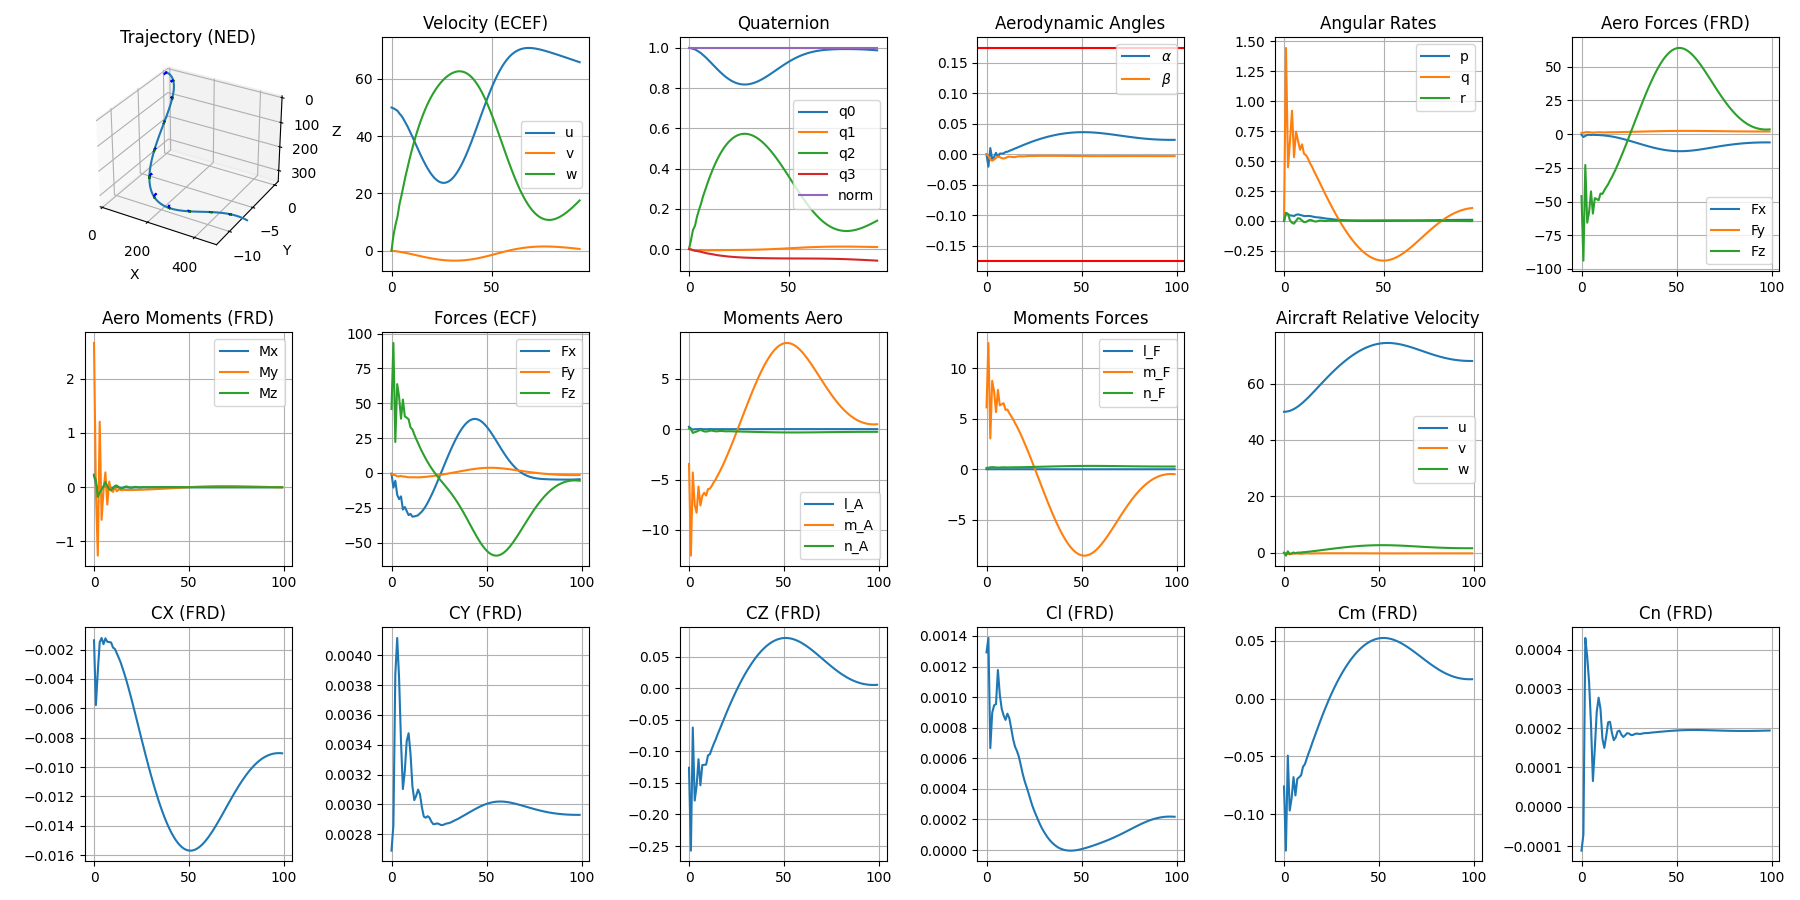
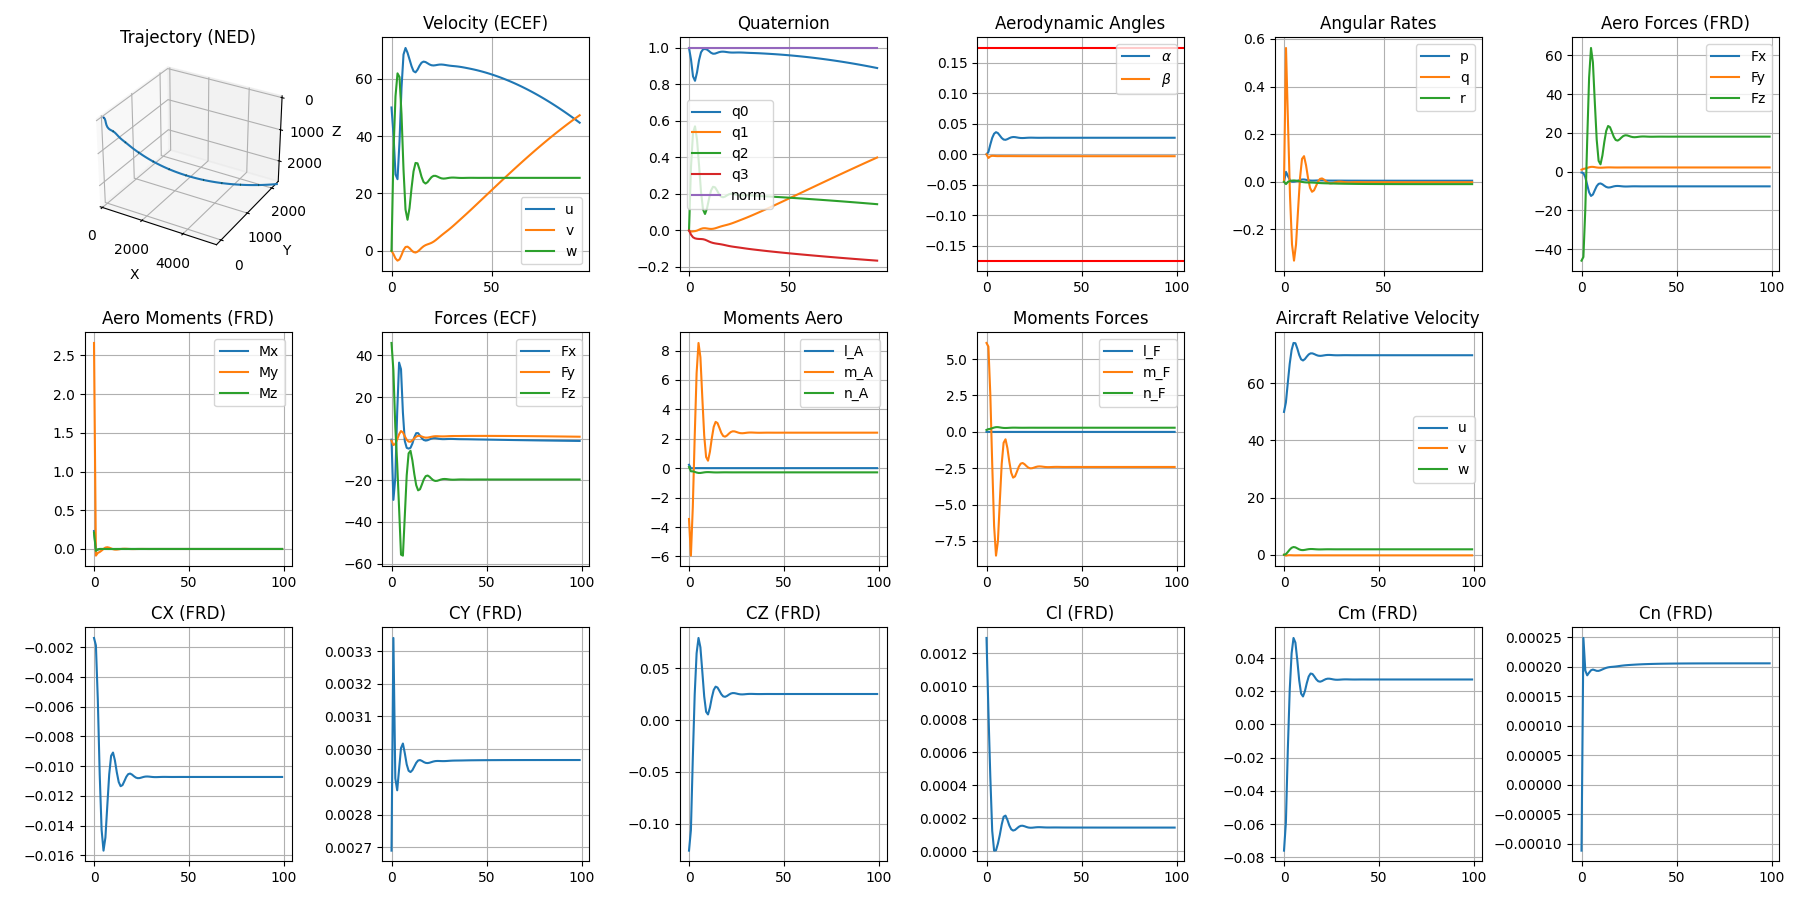
updated to l4casadiv2 and parallelised dynamics

diff --git a/src/dynamics.py b/src/dynamics.py
@@ -175,7 +175,9 @@ class Aircraft:
 
         self.mass = params['mass']
         
-        self.model = L4CasADi(model, name = 'AeroModel', generate_jac_jac=True)
+        self.model = L4CasADi(model, name = 'AeroModel'
+                            #   , generate_jac_jac=True
+                              )
         self.qbar
         self.beta
         self.alpha
@@ -332,7 +334,7 @@ class Aircraft:
             )
         
         outputs = self.model(ca.reshape(inputs, 1, -1))
-        outputs = ca.vertcat(outputs)
+        outputs = ca.vertcat(outputs.T)
         print(f"Output shape: {outputs.shape}")  # Debugging statement
         self._coefficients = ca.Function(
             'coefficients', 
@@ -684,19 +686,72 @@ class Aircraft:
         num_steps = self.STEPS
 
         dt_scaled = dt / num_steps
-        # folded_update = ca.Function('folder', [self.state], [self.state_step(self.state, control_sym, dt_scaled)])
-        for i in range(num_steps):
-            state = self.state_step(state, control_sym, dt_scaled)
-        # F = folded_update.fold(num_steps)
-            if i % normalisation_interval == 0:
-                state[:4] = Quaternion(state[:4]).normalize().coeffs()
-        # state = F(state)
+        input_to_fold = ca.vertcat(self.state, self.control, dt)
+        fold_output = ca.vertcat(self.state_step(state, control_sym, dt_scaled), control_sym, dt)
+        folded_update = ca.Function('folder', [input_to_fold], [fold_output])
+        
+        F = folded_update.fold(num_steps)
+        state = F(input_to_fold)[:self.num_states]
+        # for i in range(num_steps):
+        #     state = self.state_step(state, control_sym, dt_scaled)
+        
+        #     if i % normalisation_interval == 0:
+        #         state[:4] = Quaternion(state[:4]).normalize().coeffs()
+        
         state[:4] = Quaternion(state[:4]).normalize().coeffs()
         return ca.Function(
             'state_update', 
             [self.state, self.control, dt], 
             [state]
             ) #, {'jit':True}
+    
+    # @property
+    # def state_update(self, normalisation_interval: int = 10):
+    #     """
+    #     Runge Kutta integration with quaternion update, for loop over self.STEPS
+    #     """
+    #     dt = ca.MX.sym('dt')
+    #     state = self.state
+    #     control_sym = self.control
+    #     num_steps = self.STEPS
+
+    #     dt_scaled = dt / num_steps
+
+    #     # Create foldable state update function, including normalization at the right interval
+    #     def fold_step(state_control_dt):
+    #         # Split the input back into state, control, and dt
+    #         state = state_control_dt[:self.state.shape[0]]
+    #         control_sym = state_control_dt[self.state.shape[0]:self.state.shape[0] + self.control.shape[0]]
+    #         dt = state_control_dt[-1]
+
+    #         # Update the state with one step of the dynamics
+    #         state = self.state_step(state, control_sym, dt_scaled)
+
+    #         # Apply quaternion normalization every few steps
+    #         step_number = ca.MX.sym('step_number')  # Add the step number as input
+    #         state[:4] = ca.if_else(step_number % normalisation_interval == 0, 
+    #                             Quaternion(state[:4]).normalize().coeffs(), 
+    #                             state[:4])
+
+    #         # Return updated state only, as control and dt don't change
+    #         return state
+
+    #     # Vectorize inputs to fold
+    #     input_to_fold = ca.vertcat(state, control_sym, dt)
+
+    #     # Use a casadi function to implement the fold step
+    #     fold_step_function = ca.Function('fold_step', [input_to_fold], [fold_step(input_to_fold)])
+
+    #     # Apply the fold for num_steps
+    #     F = fold_step_function.fold(num_steps)
+
+    #     # Return the full state update function
+    #     return ca.Function(
+    #         'state_update', 
+    #         [self.state, self.control, dt], 
+    #         [F(input_to_fold)]
+    #     )
+
 
    
 
@@ -726,8 +781,8 @@ if __name__ == '__main__':
 
     dyn = aircraft.state_update
 
-    dt = .1
-    tf = 10.0
+    dt = 1
+    tf = 100.0
     state_list = np.zeros((aircraft.num_states, int(tf / dt)))
 
     dt_sym = ca.MX.sym('dt', 1)
